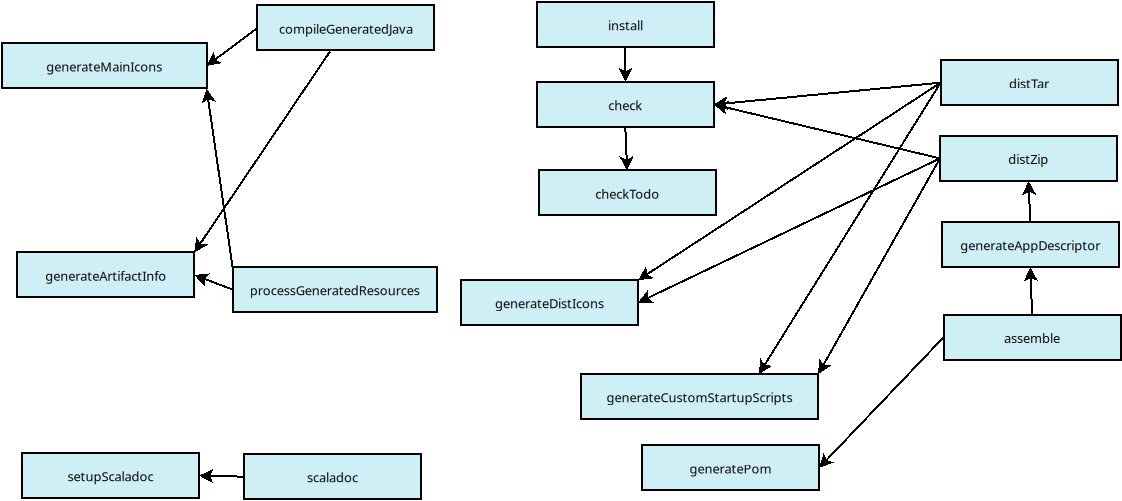
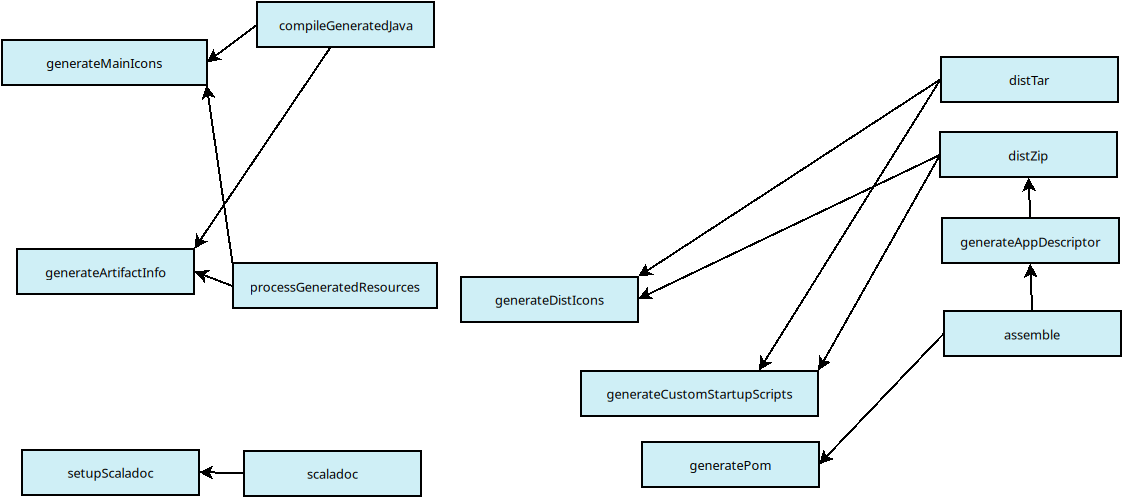
Remove `checkTodo` and the entire `check` task altogether

diff --git a/README.md b/README.md
@@ -85,8 +85,6 @@ Aurora's goal is to reduce boilerplate configuration, by providing the following
 
 - Generate a **MainIcon** class to easily access the above icons
 
-- The **checkTodo** task provided by the _todo_ plugin will fail if **project.isRelease** is _true_ and there are active TODOs
-
 - Provide _info_ and _debug_ logging messages
 
 - Setup tasks dependencies (see the graph below)
